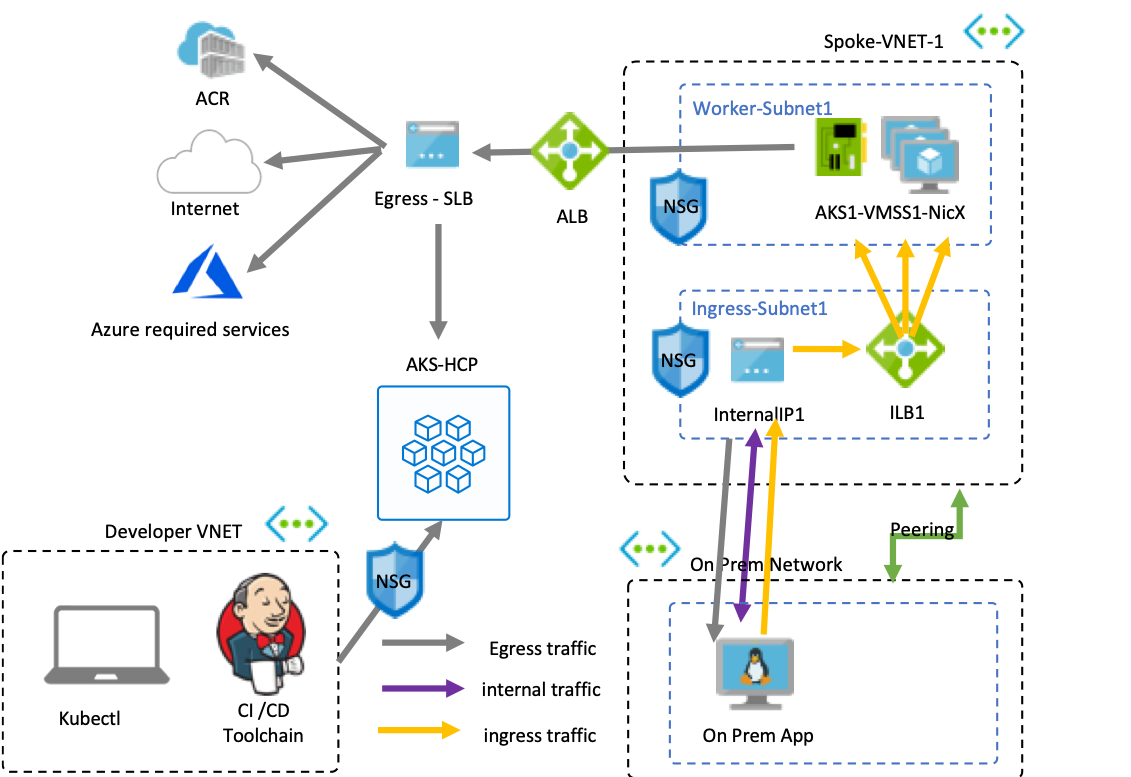
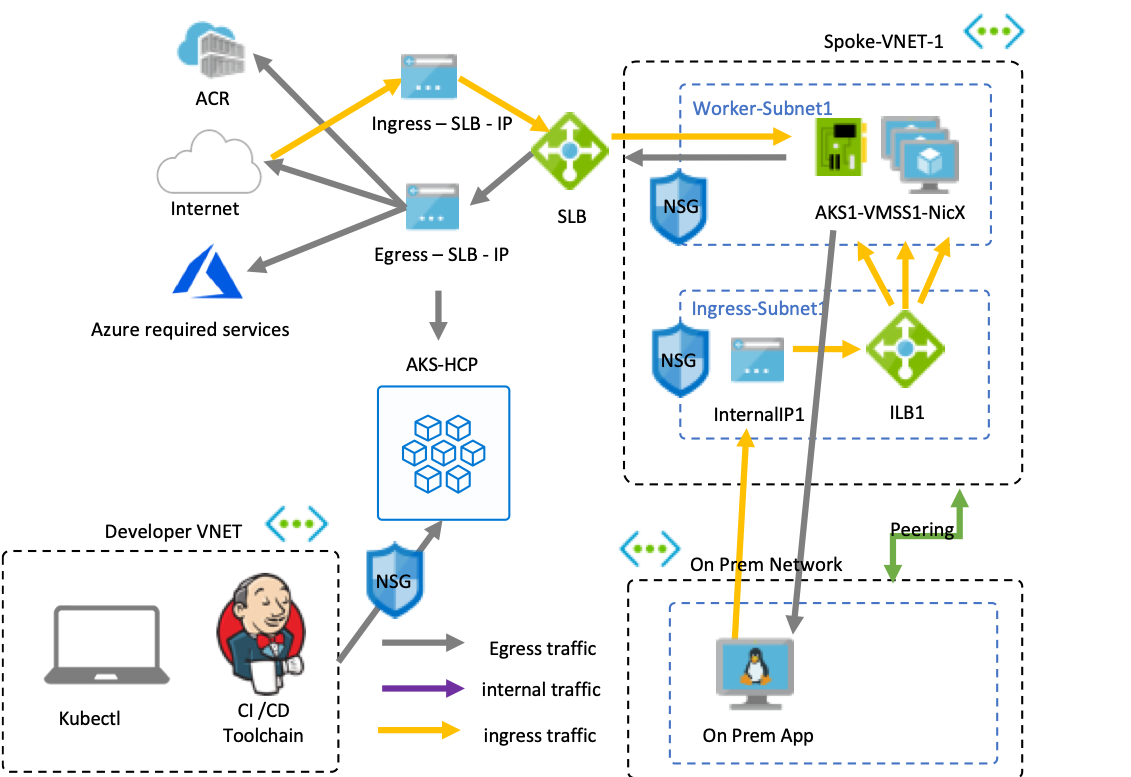
new graphic

diff --git a/cluster-design/NetworkDesign.md b/cluster-design/NetworkDesign.md
@@ -6,13 +6,14 @@ There are different design decisions and tradeoffs that need to be evaluated for
 
 Objective:
 - Decide on the number of VNETs, subnets, IP ranges and NSGs and their configuration.
+- Decide on ingress and egress routes and ip adresses
 
 ![Network design](img/vnet-design.png)
 
 Assumptions:
 
 - We have internal peered networks that are not trustworthy
-- We have no requirements for filtering egress traffic
+- We can accept public ip adresses
 
 The key design decisions for network topology are the following:
 
@@ -20,7 +21,6 @@ The key design decisions for network topology are the following:
 - How to prevent SSH access to worker nodes from other internal networks
 - How to define an internal ingress path to applications inside the cluster
 - How to define an explicit egress path for worker nodes to the internet
-
 
 Technologies used:
 - Azure VNET
@@ -33,6 +33,7 @@ Technologies used:
 Objective:
 - Decide on the path of incoming traffic 
 - Decide on if and how you want to encrypt incoming traffic
+- Decide if an azure managed service should be used for ingress
 
 ![AppGateway Ingress](img/cluster-ingress.png)
 
@@ -51,12 +52,14 @@ Technologies used:
 Objective:
 - Decide on the need for filtering egress traffic 
 - Decide on the required egress communication paths
+- Decide on the the firewall technology
 
 ![Firewall](img/cluster-egress.png)
 
 Assumptions:
 
 - We want all egress traffic from host and pods to be subject to application and network level filtering 
+- We have a process for maintaining the list of external dependencies
 
 For deploying a fully private cluster the following design decissions have to be made:
 
@@ -66,7 +69,7 @@ For deploying a fully private cluster the following design decissions have to be
 
 Technologies used:
 
-- Azure Firewall
+- Azure Firewall or third party NVA
 - User Defined Routes
 - Azure NSG
 
